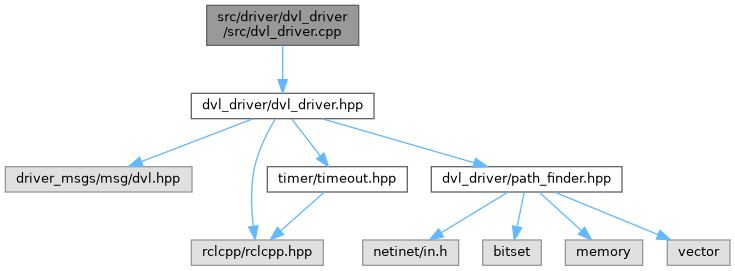
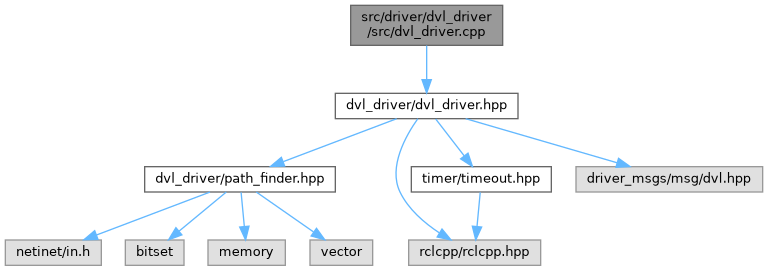
Deploying to gh-pages from @ KyutechUnderWater/kyubic_ros@37e21df4f9c170df2234b8492725d0ce0731cd4f 🚀

diff --git a/dvl__driver_8hpp_source.html b/dvl__driver_8hpp_source.html
@@ -78,43 +78,46 @@ $(function() {
 </div><!--header-->
 <div class="contents">
 <a href="dvl__driver_8hpp.html">Go to the documentation of this file.</a><div class="fragment"><div class="line"><a id="l00001" name="l00001"></a><span class="lineno">    1</span> </div>
-<div class="line"><a id="l00010" name="l00010"></a><span class="lineno">   10</span><span class="preprocessor">#include &lt;driver_msgs/msg/dvl.hpp&gt;</span></div>
-<div class="line"><a id="l00011" name="l00011"></a><span class="lineno">   11</span><span class="preprocessor">#include &lt;rclcpp/rclcpp.hpp&gt;</span></div>
-<div class="line"><a id="l00012" name="l00012"></a><span class="lineno">   12</span><span class="preprocessor">#include &lt;<a class="code" href="timeout_8hpp.html">timer/timeout.hpp</a>&gt;</span></div>
-<div class="line"><a id="l00013" name="l00013"></a><span class="lineno">   13</span> </div>
-<div class="line"><a id="l00014" name="l00014"></a><span class="lineno">   14</span><span class="preprocessor">#include &quot;<a class="code" href="path__finder_8hpp.html">dvl_driver/path_finder.hpp</a>&quot;</span></div>
-<div class="line"><a id="l00015" name="l00015"></a><span class="lineno">   15</span> </div>
-<div class="line"><a id="l00020" name="l00020"></a><span class="lineno">   20</span><span class="keyword">namespace </span><a class="code hl_namespace" href="namespacedvl__driver.html">dvl_driver</a></div>
-<div class="line"><a id="l00021" name="l00021"></a><span class="lineno">   21</span>{</div>
-<div class="line"><a id="l00022" name="l00022"></a><span class="lineno">   22</span> </div>
-<div class="line"><a id="l00026" name="l00026"></a><span class="lineno"><a class="line" href="classdvl__driver_1_1DVLDriver.html">   26</a></span><span class="keyword">class </span><a class="code hl_class" href="classdvl__driver_1_1DVLDriver.html">DVLDriver</a> : <span class="keyword">public</span> rclcpp::Node</div>
-<div class="line"><a id="l00027" name="l00027"></a><span class="lineno">   27</span>{</div>
-<div class="line"><a id="l00028" name="l00028"></a><span class="lineno">   28</span><span class="keyword">public</span>:</div>
-<div class="line"><a id="l00032" name="l00032"></a><span class="lineno">   32</span>  <span class="keyword">explicit</span> <a class="code hl_function" href="classdvl__driver_1_1DVLDriver.html#afd090ce8373b9a0bd70802722e111609">DVLDriver</a>();</div>
-<div class="line"><a id="l00033" name="l00033"></a><span class="lineno">   33</span> </div>
-<div class="line"><a id="l00034" name="l00034"></a><span class="lineno">   34</span><span class="keyword">private</span>:</div>
-<div class="line"><a id="l00035" name="l00035"></a><span class="lineno">   35</span>  std::string address;</div>
-<div class="line"><a id="l00036" name="l00036"></a><span class="lineno">   36</span>  <span class="keywordtype">int</span> listener_port;</div>
-<div class="line"><a id="l00037" name="l00037"></a><span class="lineno">   37</span>  <span class="keywordtype">int</span> sender_port;</div>
-<div class="line"><a id="l00038" name="l00038"></a><span class="lineno">   38</span>  uint64_t timeout;</div>
-<div class="line"><a id="l00039" name="l00039"></a><span class="lineno">   39</span> </div>
-<div class="line"><a id="l00040" name="l00040"></a><span class="lineno">   40</span>  std::shared_ptr&lt;timer::Timeout&gt; timeout_;</div>
+<div class="line"><a id="l00010" name="l00010"></a><span class="lineno">   10</span><span class="preprocessor">#include &quot;<a class="code" href="path__finder_8hpp.html">dvl_driver/path_finder.hpp</a>&quot;</span></div>
+<div class="line"><a id="l00011" name="l00011"></a><span class="lineno">   11</span> </div>
+<div class="line"><a id="l00012" name="l00012"></a><span class="lineno">   12</span><span class="preprocessor">#include &lt;rclcpp/rclcpp.hpp&gt;</span></div>
+<div class="line"><a id="l00013" name="l00013"></a><span class="lineno">   13</span><span class="preprocessor">#include &lt;<a class="code" href="timeout_8hpp.html">timer/timeout.hpp</a>&gt;</span></div>
+<div class="line"><a id="l00014" name="l00014"></a><span class="lineno">   14</span> </div>
+<div class="line"><a id="l00015" name="l00015"></a><span class="lineno">   15</span><span class="preprocessor">#include &lt;driver_msgs/msg/dvl.hpp&gt;</span></div>
+<div class="line"><a id="l00016" name="l00016"></a><span class="lineno">   16</span> </div>
+<div class="line"><a id="l00021" name="l00021"></a><span class="lineno">   21</span><span class="keyword">namespace </span><a class="code hl_namespace" href="namespacedvl__driver.html">dvl_driver</a></div>
+<div class="line"><a id="l00022" name="l00022"></a><span class="lineno">   22</span>{</div>
+<div class="line"><a id="l00023" name="l00023"></a><span class="lineno">   23</span> </div>
+<div class="line"><a id="l00027" name="l00027"></a><span class="lineno"><a class="line" href="classdvl__driver_1_1DVLDriver.html">   27</a></span><span class="keyword">class </span><a class="code hl_class" href="classdvl__driver_1_1DVLDriver.html">DVLDriver</a> : <span class="keyword">public</span> rclcpp::Node</div>
+<div class="line"><a id="l00028" name="l00028"></a><span class="lineno">   28</span>{</div>
+<div class="line"><a id="l00029" name="l00029"></a><span class="lineno">   29</span><span class="keyword">public</span>:</div>
+<div class="line"><a id="l00033" name="l00033"></a><span class="lineno">   33</span>  <span class="keyword">explicit</span> <a class="code hl_function" href="classdvl__driver_1_1DVLDriver.html#afd090ce8373b9a0bd70802722e111609">DVLDriver</a>();</div>
+<div class="line"><a id="l00034" name="l00034"></a><span class="lineno">   34</span>  <a class="code hl_function" href="classdvl__driver_1_1DVLDriver.html#ad9e5b3dd4dc8bb73f6a026e8b22100e3">~DVLDriver</a>();</div>
+<div class="line"><a id="l00035" name="l00035"></a><span class="lineno">   35</span> </div>
+<div class="line"><a id="l00036" name="l00036"></a><span class="lineno">   36</span><span class="keyword">private</span>:</div>
+<div class="line"><a id="l00037" name="l00037"></a><span class="lineno">   37</span>  std::string address;</div>
+<div class="line"><a id="l00038" name="l00038"></a><span class="lineno">   38</span>  <span class="keywordtype">int</span> listener_port;</div>
+<div class="line"><a id="l00039" name="l00039"></a><span class="lineno">   39</span>  <span class="keywordtype">int</span> sender_port;</div>
+<div class="line"><a id="l00040" name="l00040"></a><span class="lineno">   40</span>  uint64_t timeout;</div>
 <div class="line"><a id="l00041" name="l00041"></a><span class="lineno">   41</span> </div>
-<div class="line"><a id="l00042" name="l00042"></a><span class="lineno">   42</span>  std::shared_ptr&lt;path_finder::Sender&gt; sender_;</div>
-<div class="line"><a id="l00043" name="l00043"></a><span class="lineno">   43</span>  std::shared_ptr&lt;path_finder::Listener&gt; listener_;</div>
-<div class="line"><a id="l00044" name="l00044"></a><span class="lineno">   44</span> </div>
-<div class="line"><a id="l00045" name="l00045"></a><span class="lineno">   45</span>  rclcpp::Publisher&lt;driver_msgs::msg::DVL&gt;::SharedPtr pub_;</div>
-<div class="line"><a id="l00046" name="l00046"></a><span class="lineno">   46</span>  rclcpp::TimerBase::SharedPtr timer_;</div>
-<div class="line"><a id="l00047" name="l00047"></a><span class="lineno">   47</span> </div>
-<div class="line"><a id="l00052" name="l00052"></a><span class="lineno">   52</span>  <span class="keywordtype">bool</span> <a class="code hl_namespace" href="namespacesetup.html">setup</a>();</div>
-<div class="line"><a id="l00053" name="l00053"></a><span class="lineno">   53</span> </div>
-<div class="line"><a id="l00058" name="l00058"></a><span class="lineno">   58</span>  <span class="keywordtype">bool</span> _update();</div>
-<div class="line"><a id="l00059" name="l00059"></a><span class="lineno">   59</span> </div>
-<div class="line"><a id="l00063" name="l00063"></a><span class="lineno">   63</span>  <span class="keywordtype">void</span> update();</div>
-<div class="line"><a id="l00064" name="l00064"></a><span class="lineno">   64</span>};</div>
-<div class="line"><a id="l00065" name="l00065"></a><span class="lineno">   65</span> </div>
-<div class="line"><a id="l00066" name="l00066"></a><span class="lineno">   66</span>}  <span class="comment">// namespace dvl_driver</span></div>
-<div class="ttc" id="aclassdvl__driver_1_1DVLDriver_html"><div class="ttname"><a href="classdvl__driver_1_1DVLDriver.html">dvl_driver::DVLDriver</a></div><div class="ttdoc">DVL driver class.</div><div class="ttdef"><b>Definition:</b> dvl_driver.hpp:27</div></div>
+<div class="line"><a id="l00042" name="l00042"></a><span class="lineno">   42</span>  std::shared_ptr&lt;timer::Timeout&gt; timeout_;</div>
+<div class="line"><a id="l00043" name="l00043"></a><span class="lineno">   43</span> </div>
+<div class="line"><a id="l00044" name="l00044"></a><span class="lineno">   44</span>  std::shared_ptr&lt;path_finder::Sender&gt; sender_;</div>
+<div class="line"><a id="l00045" name="l00045"></a><span class="lineno">   45</span>  std::shared_ptr&lt;path_finder::Listener&gt; listener_;</div>
+<div class="line"><a id="l00046" name="l00046"></a><span class="lineno">   46</span> </div>
+<div class="line"><a id="l00047" name="l00047"></a><span class="lineno">   47</span>  rclcpp::Publisher&lt;driver_msgs::msg::DVL&gt;::SharedPtr pub_;</div>
+<div class="line"><a id="l00048" name="l00048"></a><span class="lineno">   48</span>  rclcpp::TimerBase::SharedPtr timer_;</div>
+<div class="line"><a id="l00049" name="l00049"></a><span class="lineno">   49</span> </div>
+<div class="line"><a id="l00054" name="l00054"></a><span class="lineno">   54</span>  <span class="keywordtype">bool</span> <a class="code hl_namespace" href="namespacesetup.html">setup</a>();</div>
+<div class="line"><a id="l00055" name="l00055"></a><span class="lineno">   55</span> </div>
+<div class="line"><a id="l00060" name="l00060"></a><span class="lineno">   60</span>  <span class="keywordtype">bool</span> _update();</div>
+<div class="line"><a id="l00061" name="l00061"></a><span class="lineno">   61</span> </div>
+<div class="line"><a id="l00065" name="l00065"></a><span class="lineno">   65</span>  <span class="keywordtype">void</span> update();</div>
+<div class="line"><a id="l00066" name="l00066"></a><span class="lineno">   66</span>};</div>
+<div class="line"><a id="l00067" name="l00067"></a><span class="lineno">   67</span> </div>
+<div class="line"><a id="l00068" name="l00068"></a><span class="lineno">   68</span>}  <span class="comment">// namespace dvl_driver</span></div>
+<div class="ttc" id="aclassdvl__driver_1_1DVLDriver_html"><div class="ttname"><a href="classdvl__driver_1_1DVLDriver.html">dvl_driver::DVLDriver</a></div><div class="ttdoc">DVL driver class.</div><div class="ttdef"><b>Definition:</b> dvl_driver.hpp:28</div></div>
+<div class="ttc" id="aclassdvl__driver_1_1DVLDriver_html_ad9e5b3dd4dc8bb73f6a026e8b22100e3"><div class="ttname"><a href="classdvl__driver_1_1DVLDriver.html#ad9e5b3dd4dc8bb73f6a026e8b22100e3">dvl_driver::DVLDriver::~DVLDriver</a></div><div class="ttdeci">~DVLDriver()</div><div class="ttdef"><b>Definition:</b> dvl_driver.cpp:38</div></div>
 <div class="ttc" id="aclassdvl__driver_1_1DVLDriver_html_afd090ce8373b9a0bd70802722e111609"><div class="ttname"><a href="classdvl__driver_1_1DVLDriver.html#afd090ce8373b9a0bd70802722e111609">dvl_driver::DVLDriver::DVLDriver</a></div><div class="ttdeci">DVLDriver()</div><div class="ttdoc">Connect Path Finder and Set Topic.</div><div class="ttdef"><b>Definition:</b> dvl_driver.cpp:17</div></div>
 <div class="ttc" id="anamespacedvl__driver_html"><div class="ttname"><a href="namespacedvl__driver.html">dvl_driver</a></div><div class="ttdoc">For dvl driver.</div></div>
 <div class="ttc" id="anamespacesetup_html"><div class="ttname"><a href="namespacesetup.html">setup</a></div><div class="ttdef"><b>Definition:</b> setup.py:1</div></div>

diff --git a/dvl__driver_8hpp.html b/dvl__driver_8hpp.html
@@ -83,24 +83,24 @@ $(function() {
 
 <p>DVL driver.  
 <a href="#details">More...</a></p>
-<div class="textblock"><code>#include &lt;driver_msgs/msg/dvl.hpp&gt;</code><br />
+<div class="textblock"><code>#include &quot;<a class="el" href="path__finder_8hpp_source.html">dvl_driver/path_finder.hpp</a>&quot;</code><br />
 <code>#include &lt;rclcpp/rclcpp.hpp&gt;</code><br />
 <code>#include &lt;<a class="el" href="timeout_8hpp_source.html">timer/timeout.hpp</a>&gt;</code><br />
-<code>#include &quot;<a class="el" href="path__finder_8hpp_source.html">dvl_driver/path_finder.hpp</a>&quot;</code><br />
+<code>#include &lt;driver_msgs/msg/dvl.hpp&gt;</code><br />
 </div><div class="textblock"><div class="dynheader">
 Include dependency graph for dvl_driver.hpp:</div>
 <div class="dyncontent">
 <div class="center"><img src="dvl__driver_8hpp__incl.png" border="0" usemap="#asrc_2driver_2dvl__driver_2include_2dvl__driver_2dvl__driver_8hpp" alt=""/></div>
 <map name="asrc_2driver_2dvl__driver_2include_2dvl__driver_2dvl__driver_8hpp" id="asrc_2driver_2dvl__driver_2include_2dvl__driver_2dvl__driver_8hpp">
-<area shape="rect" title="DVL driver." alt="" coords="199,5,366,60"/>
-<area shape="rect" title=" " alt="" coords="5,108,192,133"/>
-<area shape="rect" title=" " alt="" coords="191,181,323,207"/>
-<area shape="rect" href="timeout_8hpp.html" title="timeout library" alt="" coords="267,108,407,133"/>
-<area shape="rect" href="path__finder_8hpp.html" title="Path Finder library." alt="" coords="431,108,622,133"/>
-<area shape="rect" title=" " alt="" coords="363,181,459,207"/>
-<area shape="rect" title=" " alt="" coords="483,181,541,207"/>
-<area shape="rect" title=" " alt="" coords="565,181,643,207"/>
-<area shape="rect" title=" " alt="" coords="667,181,730,207"/>
+<area shape="rect" title="DVL driver." alt="" coords="343,5,510,60"/>
+<area shape="rect" href="path__finder_8hpp.html" title="Path Finder library." alt="" coords="145,108,335,133"/>
+<area shape="rect" title=" " alt="" coords="409,181,541,207"/>
+<area shape="rect" href="timeout_8hpp.html" title="timeout library" alt="" coords="411,108,551,133"/>
+<area shape="rect" title=" " alt="" coords="576,108,763,133"/>
+<area shape="rect" title=" " alt="" coords="5,181,101,207"/>
+<area shape="rect" title=" " alt="" coords="125,181,184,207"/>
+<area shape="rect" title=" " alt="" coords="208,181,285,207"/>
+<area shape="rect" title=" " alt="" coords="310,181,373,207"/>
 </map>
 </div>
 </div><div class="textblock"><div class="dynheader">

diff --git a/dvl__driver_8cpp.html b/dvl__driver_8cpp.html
@@ -89,16 +89,16 @@ Include dependency graph for dvl_driver.cpp:</div>
 <div class="dyncontent">
 <div class="center"><img src="dvl__driver_8cpp__incl.png" border="0" usemap="#asrc_2driver_2dvl__driver_2src_2dvl__driver_8cpp" alt=""/></div>
 <map name="asrc_2driver_2dvl__driver_2src_2dvl__driver_8cpp" id="asrc_2driver_2dvl__driver_2src_2dvl__driver_8cpp">
-<area shape="rect" title="DVL driver." alt="" coords="207,5,359,45"/>
-<area shape="rect" href="dvl__driver_8hpp.html" title="DVL driver." alt="" coords="191,93,374,119"/>
-<area shape="rect" title=" " alt="" coords="5,167,192,192"/>
-<area shape="rect" title=" " alt="" coords="191,240,323,265"/>
-<area shape="rect" href="timeout_8hpp.html" title="timeout library" alt="" coords="267,167,407,192"/>
-<area shape="rect" href="path__finder_8hpp.html" title="Path Finder library." alt="" coords="431,167,622,192"/>
-<area shape="rect" title=" " alt="" coords="363,240,459,265"/>
-<area shape="rect" title=" " alt="" coords="483,240,541,265"/>
-<area shape="rect" title=" " alt="" coords="565,240,643,265"/>
-<area shape="rect" title=" " alt="" coords="667,240,730,265"/>
+<area shape="rect" title="DVL driver." alt="" coords="351,5,503,45"/>
+<area shape="rect" href="dvl__driver_8hpp.html" title="DVL driver." alt="" coords="335,93,518,119"/>
+<area shape="rect" href="path__finder_8hpp.html" title="Path Finder library." alt="" coords="145,167,335,192"/>
+<area shape="rect" title=" " alt="" coords="409,240,541,265"/>
+<area shape="rect" href="timeout_8hpp.html" title="timeout library" alt="" coords="411,167,551,192"/>
+<area shape="rect" title=" " alt="" coords="576,167,763,192"/>
+<area shape="rect" title=" " alt="" coords="5,240,101,265"/>
+<area shape="rect" title=" " alt="" coords="125,240,184,265"/>
+<area shape="rect" title=" " alt="" coords="208,240,285,265"/>
+<area shape="rect" title=" " alt="" coords="310,240,373,265"/>
 </map>
 </div>
 </div><table class="memberdecls">

diff --git a/classdvl__driver_1_1DVLDriver.html b/classdvl__driver_1_1DVLDriver.html
@@ -109,6 +109,8 @@ Public Member Functions</h2></td></tr>
 <tr class="memitem:afd090ce8373b9a0bd70802722e111609"><td class="memItemLeft" align="right" valign="top">&#160;</td><td class="memItemRight" valign="bottom"><a class="el" href="classdvl__driver_1_1DVLDriver.html#afd090ce8373b9a0bd70802722e111609">DVLDriver</a> ()</td></tr>
 <tr class="memdesc:afd090ce8373b9a0bd70802722e111609"><td class="mdescLeft">&#160;</td><td class="mdescRight">Connect Path Finder and Set Topic.  <br /></td></tr>
 <tr class="separator:afd090ce8373b9a0bd70802722e111609"><td class="memSeparator" colspan="2">&#160;</td></tr>
+<tr class="memitem:ad9e5b3dd4dc8bb73f6a026e8b22100e3"><td class="memItemLeft" align="right" valign="top">&#160;</td><td class="memItemRight" valign="bottom"><a class="el" href="classdvl__driver_1_1DVLDriver.html#ad9e5b3dd4dc8bb73f6a026e8b22100e3">~DVLDriver</a> ()</td></tr>
+<tr class="separator:ad9e5b3dd4dc8bb73f6a026e8b22100e3"><td class="memSeparator" colspan="2">&#160;</td></tr>
 </table>
 <a name="details" id="details"></a><h2 class="groupheader">Detailed Description</h2>
 <div class="textblock"><p>DVL driver class. </p>
@@ -137,6 +139,23 @@ Public Member Functions</h2></td></tr>
 </div><div class="memdoc">
 
 <p>Connect Path Finder and Set Topic. </p>
+
+</div>
+</div>
+<a id="ad9e5b3dd4dc8bb73f6a026e8b22100e3" name="ad9e5b3dd4dc8bb73f6a026e8b22100e3"></a>
+<h2 class="memtitle"><span class="permalink"><a href="#ad9e5b3dd4dc8bb73f6a026e8b22100e3">&#9670;&#160;</a></span>~DVLDriver()</h2>
+
+<div class="memitem">
+<div class="memproto">
+      <table class="memname">
+        <tr>
+          <td class="memname">dvl_driver::DVLDriver::~DVLDriver </td>
+          <td>(</td>
+          <td class="paramname"></td><td>)</td>
+          <td></td>
+        </tr>
+      </table>
+</div><div class="memdoc">
 
 </div>
 </div>

diff --git a/classdvl__driver_1_1DVLDriver-members.html b/classdvl__driver_1_1DVLDriver-members.html
@@ -81,6 +81,7 @@ $(function() {
 <p>This is the complete list of members for <a class="el" href="classdvl__driver_1_1DVLDriver.html">dvl_driver::DVLDriver</a>, including all inherited members.</p>
 <table class="directory">
   <tr class="even"><td class="entry"><a class="el" href="classdvl__driver_1_1DVLDriver.html#afd090ce8373b9a0bd70802722e111609">DVLDriver</a>()</td><td class="entry"><a class="el" href="classdvl__driver_1_1DVLDriver.html">dvl_driver::DVLDriver</a></td><td class="entry"><span class="mlabel">explicit</span></td></tr>
+  <tr class="odd"><td class="entry"><a class="el" href="classdvl__driver_1_1DVLDriver.html#ad9e5b3dd4dc8bb73f6a026e8b22100e3">~DVLDriver</a>()</td><td class="entry"><a class="el" href="classdvl__driver_1_1DVLDriver.html">dvl_driver::DVLDriver</a></td><td class="entry"></td></tr>
 </table></div><!-- contents -->
 <!-- start footer part -->
 <hr class="footer"/><address class="footer"><small>

diff --git a/search/all_18.js b/search/all_18.js
@@ -1,4 +1,5 @@
 var searchData=
 [
-  ['_7eserial_0',['~Serial',['../classserial_1_1Serial.html#a071000a2f5f77a40df8311fad5044481',1,'serial::Serial']]]
+  ['_7edvldriver_0',['~DVLDriver',['../classdvl__driver_1_1DVLDriver.html#ad9e5b3dd4dc8bb73f6a026e8b22100e3',1,'dvl_driver::DVLDriver']]],
+  ['_7eserial_1',['~Serial',['../classserial_1_1Serial.html#a071000a2f5f77a40df8311fad5044481',1,'serial::Serial']]]
 ];

diff --git a/search/functions_12.js b/search/functions_12.js
@@ -1,4 +1,5 @@
 var searchData=
 [
-  ['_7eserial_0',['~Serial',['../classserial_1_1Serial.html#a071000a2f5f77a40df8311fad5044481',1,'serial::Serial']]]
+  ['_7edvldriver_0',['~DVLDriver',['../classdvl__driver_1_1DVLDriver.html#ad9e5b3dd4dc8bb73f6a026e8b22100e3',1,'dvl_driver::DVLDriver']]],
+  ['_7eserial_1',['~Serial',['../classserial_1_1Serial.html#a071000a2f5f77a40df8311fad5044481',1,'serial::Serial']]]
 ];

diff --git a/functions.html b/functions.html
@@ -276,6 +276,7 @@ $(function() {
 
 
 <h3><a id="index__7E" name="index__7E"></a>- ~ -</h3><ul>
+<li>~DVLDriver()&#160;:&#160;<a class="el" href="classdvl__driver_1_1DVLDriver.html#ad9e5b3dd4dc8bb73f6a026e8b22100e3">dvl_driver::DVLDriver</a></li>
 <li>~Serial()&#160;:&#160;<a class="el" href="classserial_1_1Serial.html#a071000a2f5f77a40df8311fad5044481">serial::Serial</a></li>
 </ul>
 </div><!-- contents -->

diff --git a/functions_func.html b/functions_func.html
@@ -177,6 +177,7 @@ $(function() {
 
 
 <h3><a id="index__7E" name="index__7E"></a>- ~ -</h3><ul>
+<li>~DVLDriver()&#160;:&#160;<a class="el" href="classdvl__driver_1_1DVLDriver.html#ad9e5b3dd4dc8bb73f6a026e8b22100e3">dvl_driver::DVLDriver</a></li>
 <li>~Serial()&#160;:&#160;<a class="el" href="classserial_1_1Serial.html#a071000a2f5f77a40df8311fad5044481">serial::Serial</a></li>
 </ul>
 </div><!-- contents -->
